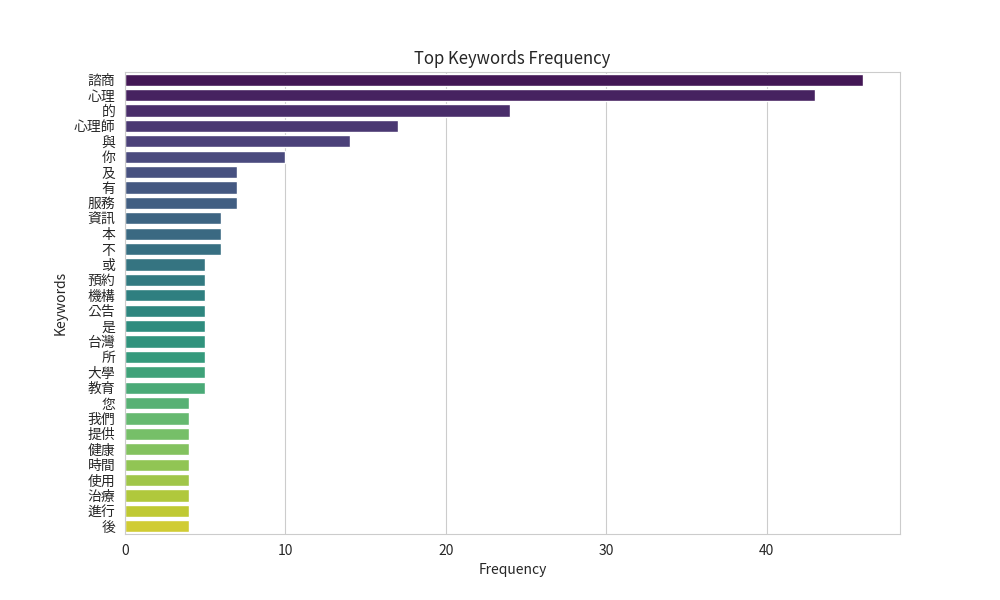
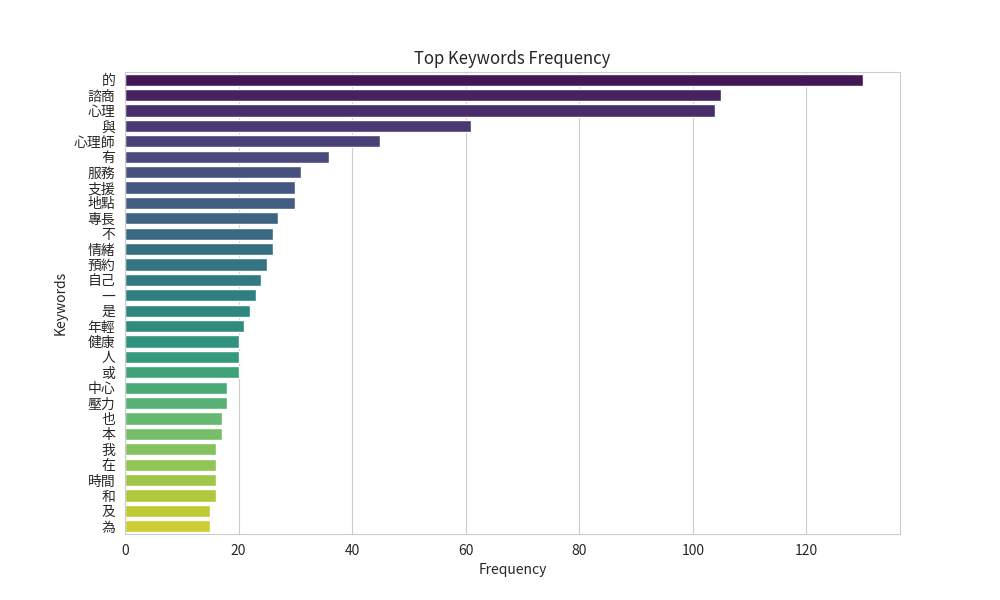
remove temp.py

diff --git a/p5/crawl.py b/p5/crawl.py
@@ -1,7 +1,9 @@
 import requests
 import json
 import config
+from requests_html import HTMLSession
 from bs4 import BeautifulSoup
+from tqdm import tqdm
 
 def google_search(query, start_index=1):
     url = f"https://www.googleapis.com/customsearch/v1?q={query}&key={config.API_KEY}&cx={config.SEARCH_ENGINE_ID}&start={start_index}"
@@ -13,7 +15,7 @@ def get_search_results(query, num_pages=3):
     for page in range(num_pages):
         start_index = page * 10 + 1
         search_response = google_search(query, start_index)
-        
+
         if 'items' in search_response:
             results.extend(search_response['items'])
         else:
@@ -22,24 +24,27 @@ def get_search_results(query, num_pages=3):
 
 def get_page_content(url):
     try:
-        response = requests.get(url)
-        if response.status_code == 200:
-            return response.text
-        else:
-            return ''
+        session = HTMLSession()
+        response = session.get(url)
+        response.html.render(sleep=3)
+        response.encoding = 'utf-8'
+
         soup = BeautifulSoup(response.text, 'html.parser')
-        paragraphs = soup.find_all('p')
+        paragraphs = soup.find_all(['p', 'h1', 'h2', 'h3', 'h4', 'h5', 'h6'])
         page_text = ' '.join([para.get_text() for para in paragraphs])
+
+        return page_text
     except:
         return ''
 
 def get_parse_results(items):
     parsed_results = []
-    for item in items:
+    for item in tqdm(items):
         result = {
             'title': item.get('title'),
             'link': item.get('link')
         }
         result['content'] = get_page_content(result['link'])
+        #print(result['content'])
         parsed_results.append(result)
     return parsed_results

diff --git a/p5/gsheet_util.py b/p5/gsheet_util.py
@@ -13,8 +13,11 @@ def update_results_to_gsheet(parsed_result, segmented_results):
             ' '.join(segmented_results[i][:300])
         ]
 
-    sh = gc.open('Web Crawl')
+    sh = gc.open('psy-counseling-crawling')
 
     wks = sh[0]  
 
-    wks.set_dataframe(df,(0,0))
+    wks.set_dataframe(df,(0,0),encoding='utf-8')
+
+if __name__ == '__main__':
+    update_results_to_gsheet([{'title': 'title1', 'link': 'link1'}, {'title': 'title2', 'link': 'link2'}], [['word1', 'word2'], ['word3', 'word4']])

diff --git a/p5/vis.py b/p5/vis.py
@@ -3,8 +3,14 @@ from matplotlib import rcParams
 import seaborn as sns
 from collections import Counter
 
+import unicodedata
+
 def meaningful_word(word):
-    return word.strip(' ，．。！？、：；,.;:!?·.-「」一\xa0') != ''
+    for c in word:
+        if not ('\u4e00' <= c <= '\u9fff'):
+            return False
+
+    return True
 
 def plot_keyword_frequency(segmented_results):
     words = [word for result in segmented_results for word in result]

diff --git a/README.md b/README.md
@@ -5,3 +5,9 @@ SEARCH_ENGINE_ID = 'your search engine id'
 ```
 
 Then add secret.json as your api secret file.
+
+## p5
+```shell
+cd p5
+python3 run.py
+```
